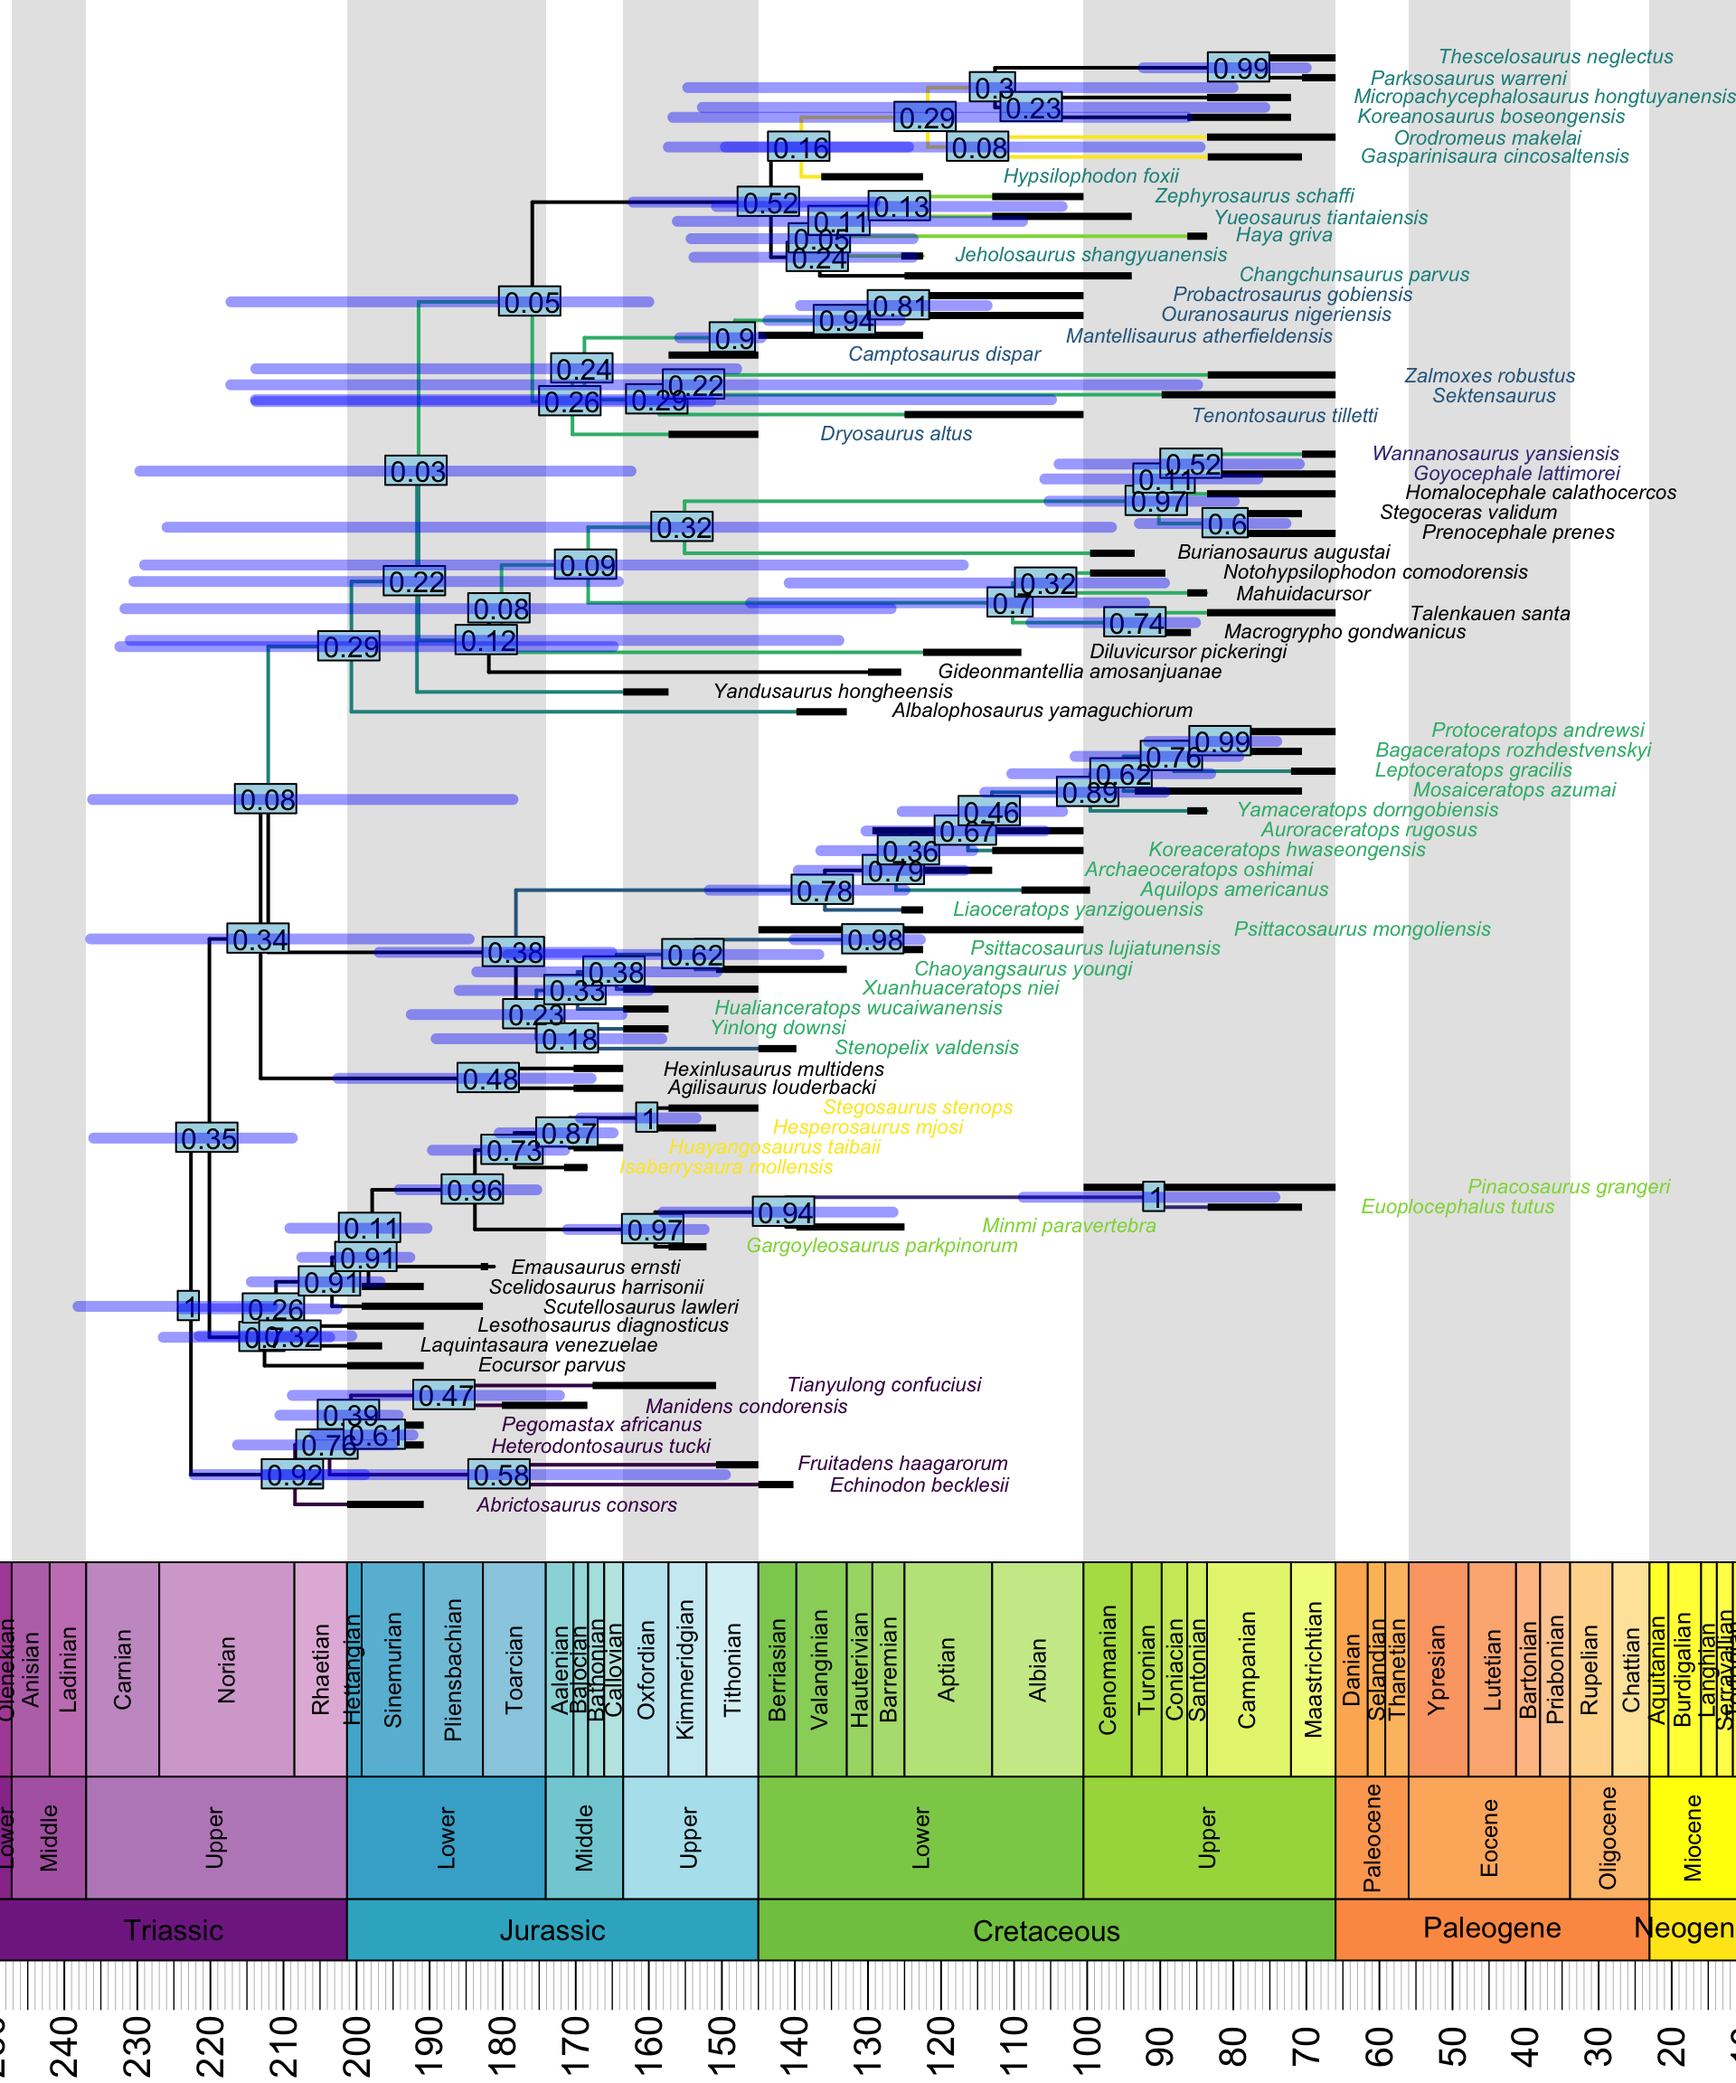
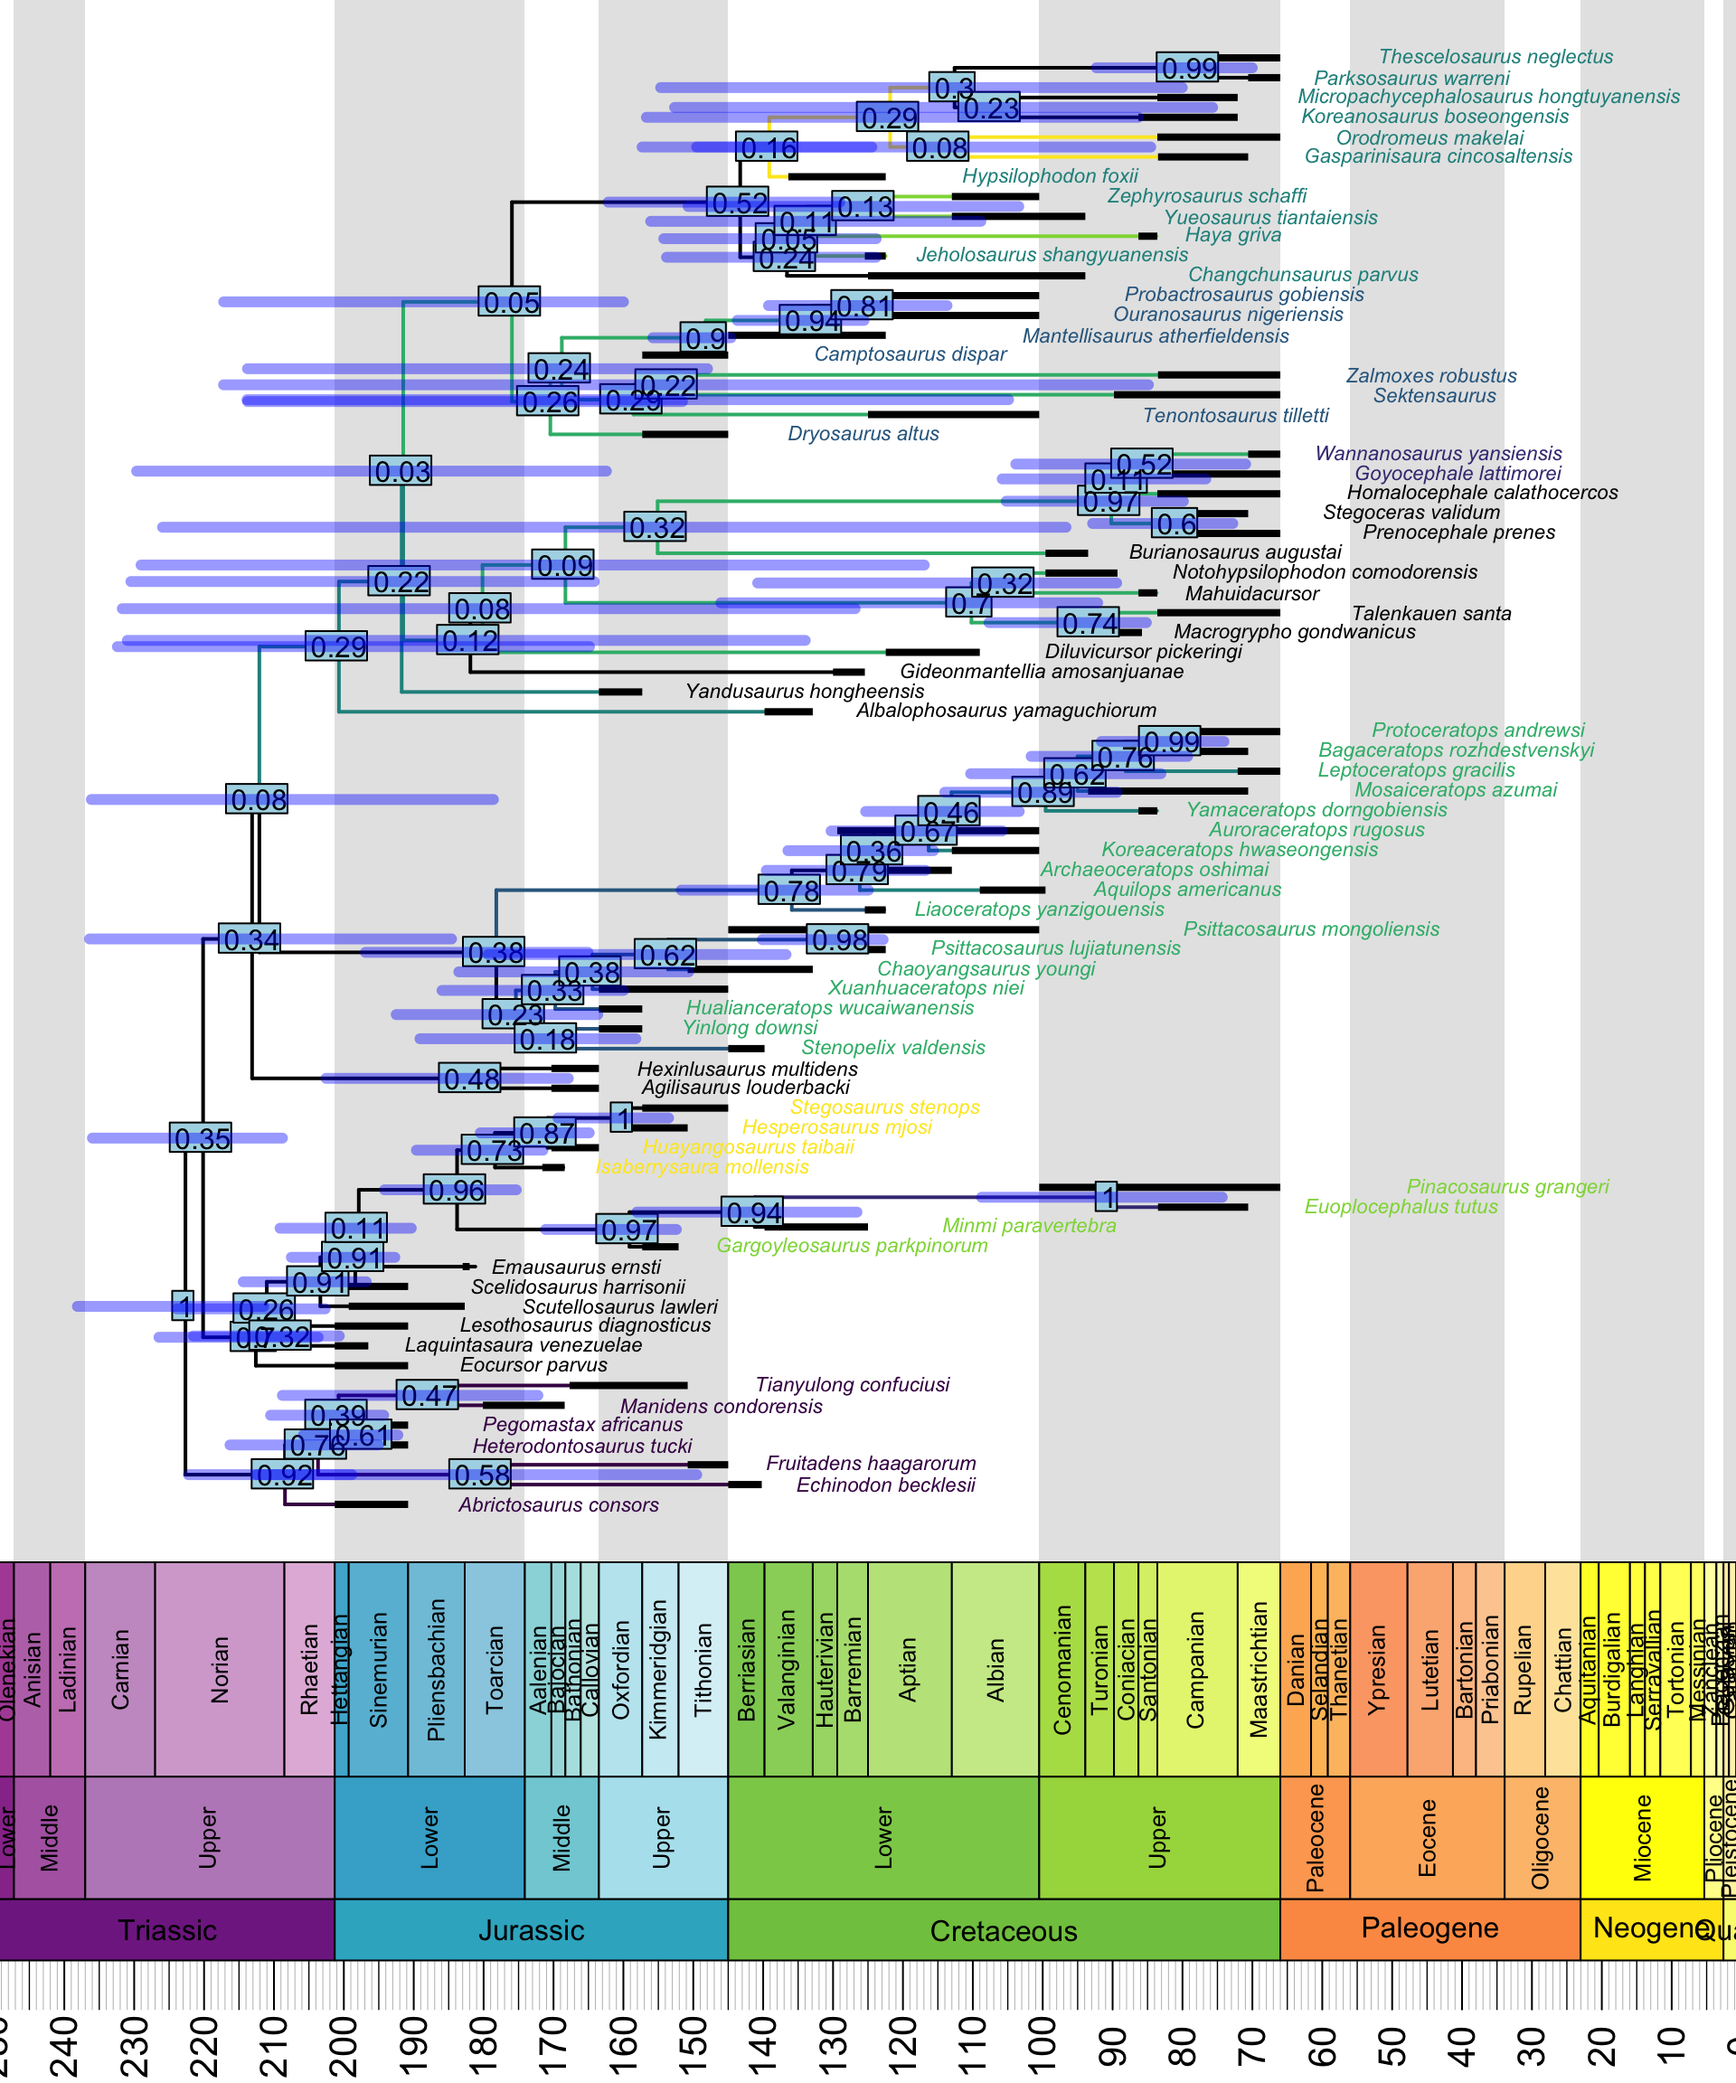
rebuilding site Wed Jan 29 10:28:33 CST 2020

diff --git a/post/plotting_beast/index.html b/post/plotting_beast/index.html
@@ -618,7 +618,7 @@ tree &lt;- read.nexus(&quot;~/my_MCC_tree.tre&quot;)
 # geoscalePhylo() needs the $root.time element for plotting
 tree$root.time &lt;- max(nodeHeights(tree)) + 66.0
 
-geoscalePhylo(ladderize(tree, right = F), ages = my_ages, x.lim = c(20, 240), cex.tip = 0.7, cex.age = 1.3, cex.ts = 1)</code></pre>
+geoscalePhylo(ladderize(tree, right = F), ages = my_ages, x.lim = c(0, 240), cex.tip = 0.7, cex.age = 1.3, cex.ts = 1)</code></pre>
 <p><img src="/post/plotting_beast/index_files/figure-html/unnamed-chunk-2-1.png" width="960" /></p>
 <p>Internally, <code>geoscalePhylo()</code> calls the <code>plot.phylo()</code> function bundled with <code>ape</code>, and so it accepts all of the latter’s arguments. We can make use of this to highlight clades.</p>
 <p>Let’s assume that we have a list where each clade to be highlighted gets a pair of “anchors”, whose MRCA is also the MRCA of the entire clade – like this one:</p>
@@ -715,7 +715,7 @@ for(i in (Ntip(annot_tree) + 1):(annot_tree$Nnode + Ntip(annot_tree))) {
 </div>
 <div id="putting-it-all-together" class="section level2">
 <h2>Putting it all together</h2>
-<p>Aside from what we went over above, the function below also parameterizes at what ages to start and stop plotting (so far we’ve used the fixed values of 20 and 240, respectively), automatically draws the right number of colors to highlight clades with from the good-looking <code>viridis</code> palette, and annotates nodes with their posterior probabilities:</p>
+<p>Aside from what we went over above, the function below also parameterizes at what ages to start and stop plotting (so far we’ve been using fixed values for these), automatically draws the right number of colors to highlight clades with from the good-looking <code>viridis</code> palette, and annotates nodes with their posterior probabilities:</p>
 <pre class="r"><code>if(!require(&quot;viridis&quot;)) {install.packages(&quot;viridis&quot;)}
 library(viridis)
 
@@ -774,7 +774,7 @@ beast.plotter &lt;- function(basepath, clade_list, xmin, xmax) {
   }
 }</code></pre>
 <p>Let’s try it out!</p>
-<pre class="r"><code>beast.plotter(&quot;~/&quot;, my_dino_list, 20, 240)</code></pre>
+<pre class="r"><code>beast.plotter(&quot;~/&quot;, my_dino_list, 10, 240)</code></pre>
 <p><img src="/post/plotting_beast/index_files/figure-html/unnamed-chunk-11-1.png" width="960" /></p>
 </div>
 <div id="refs" class="section level2">
